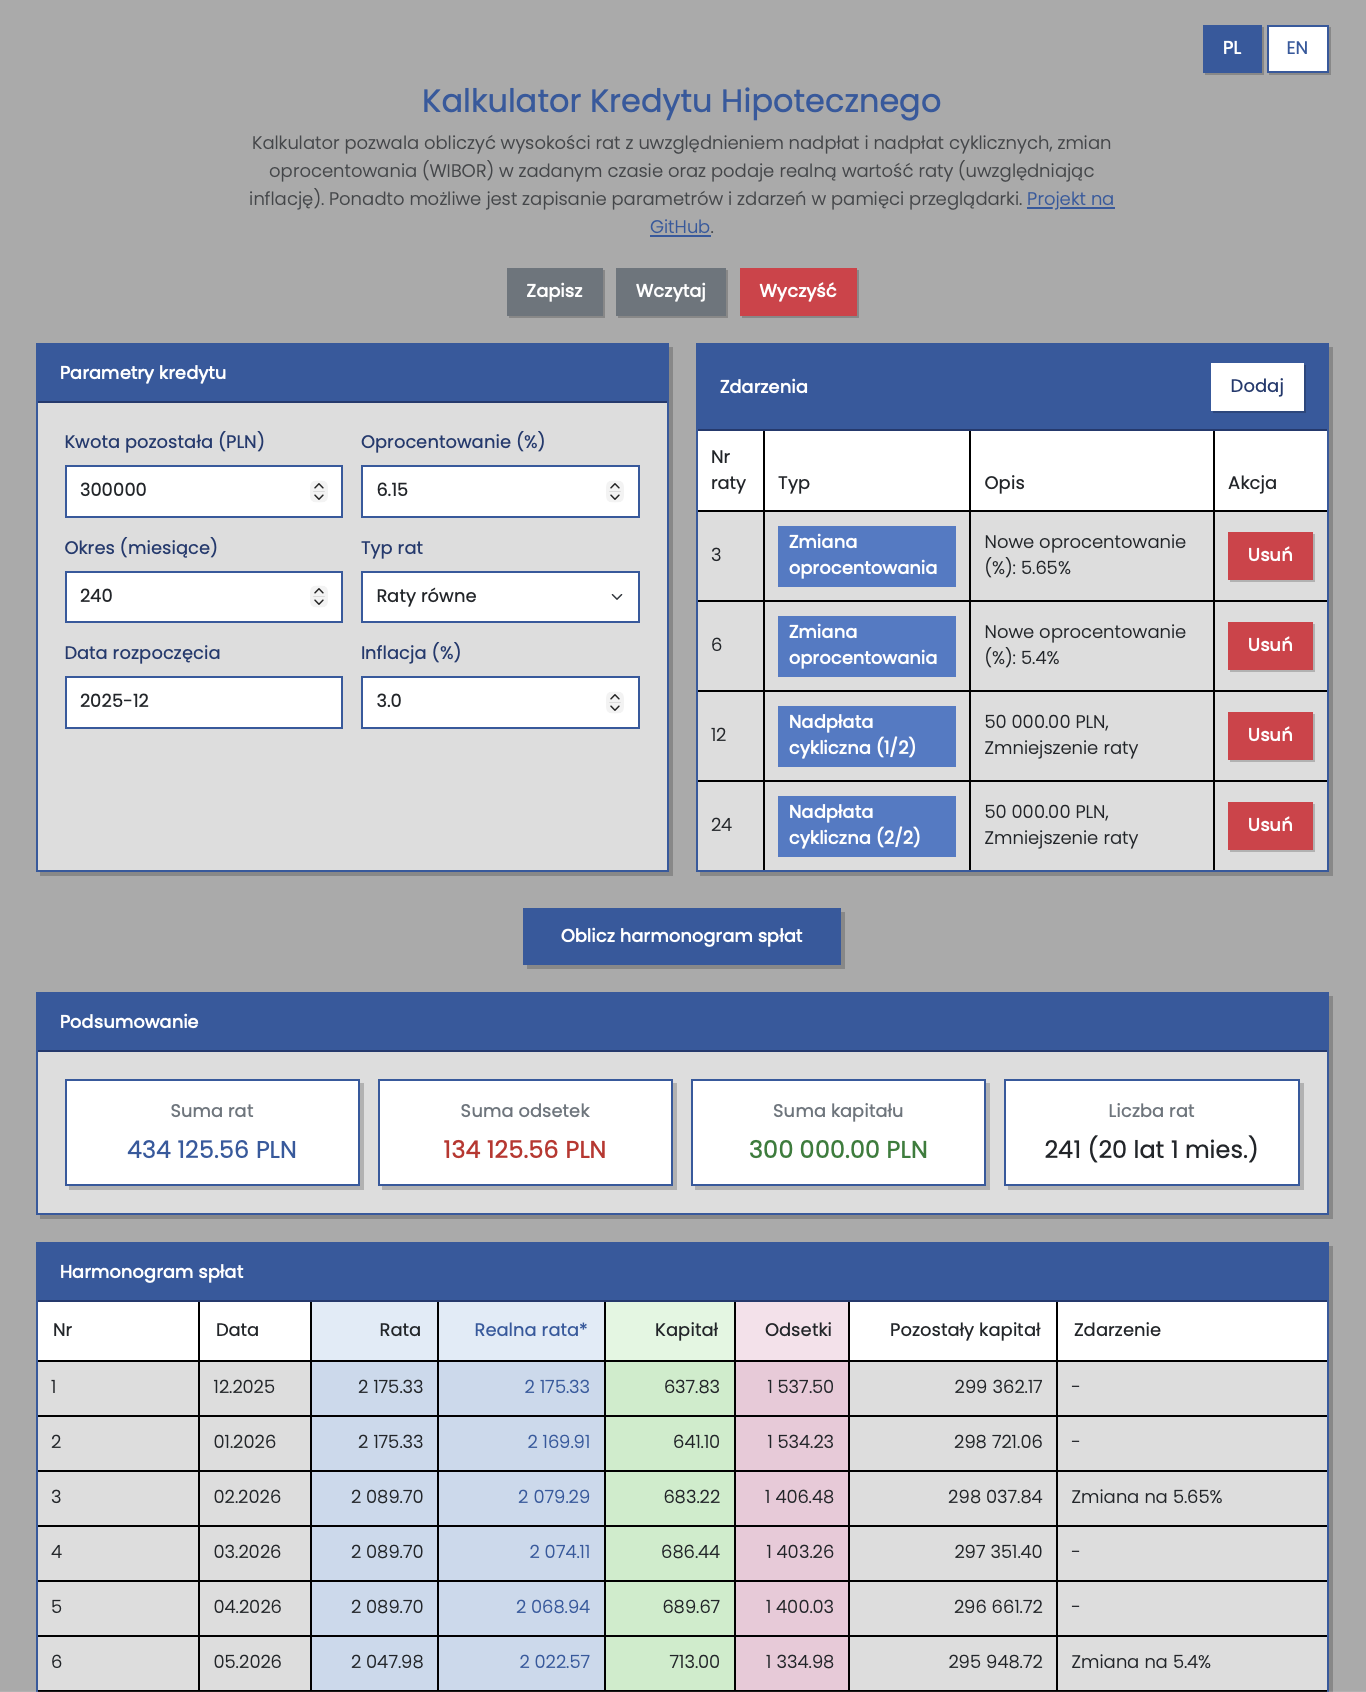
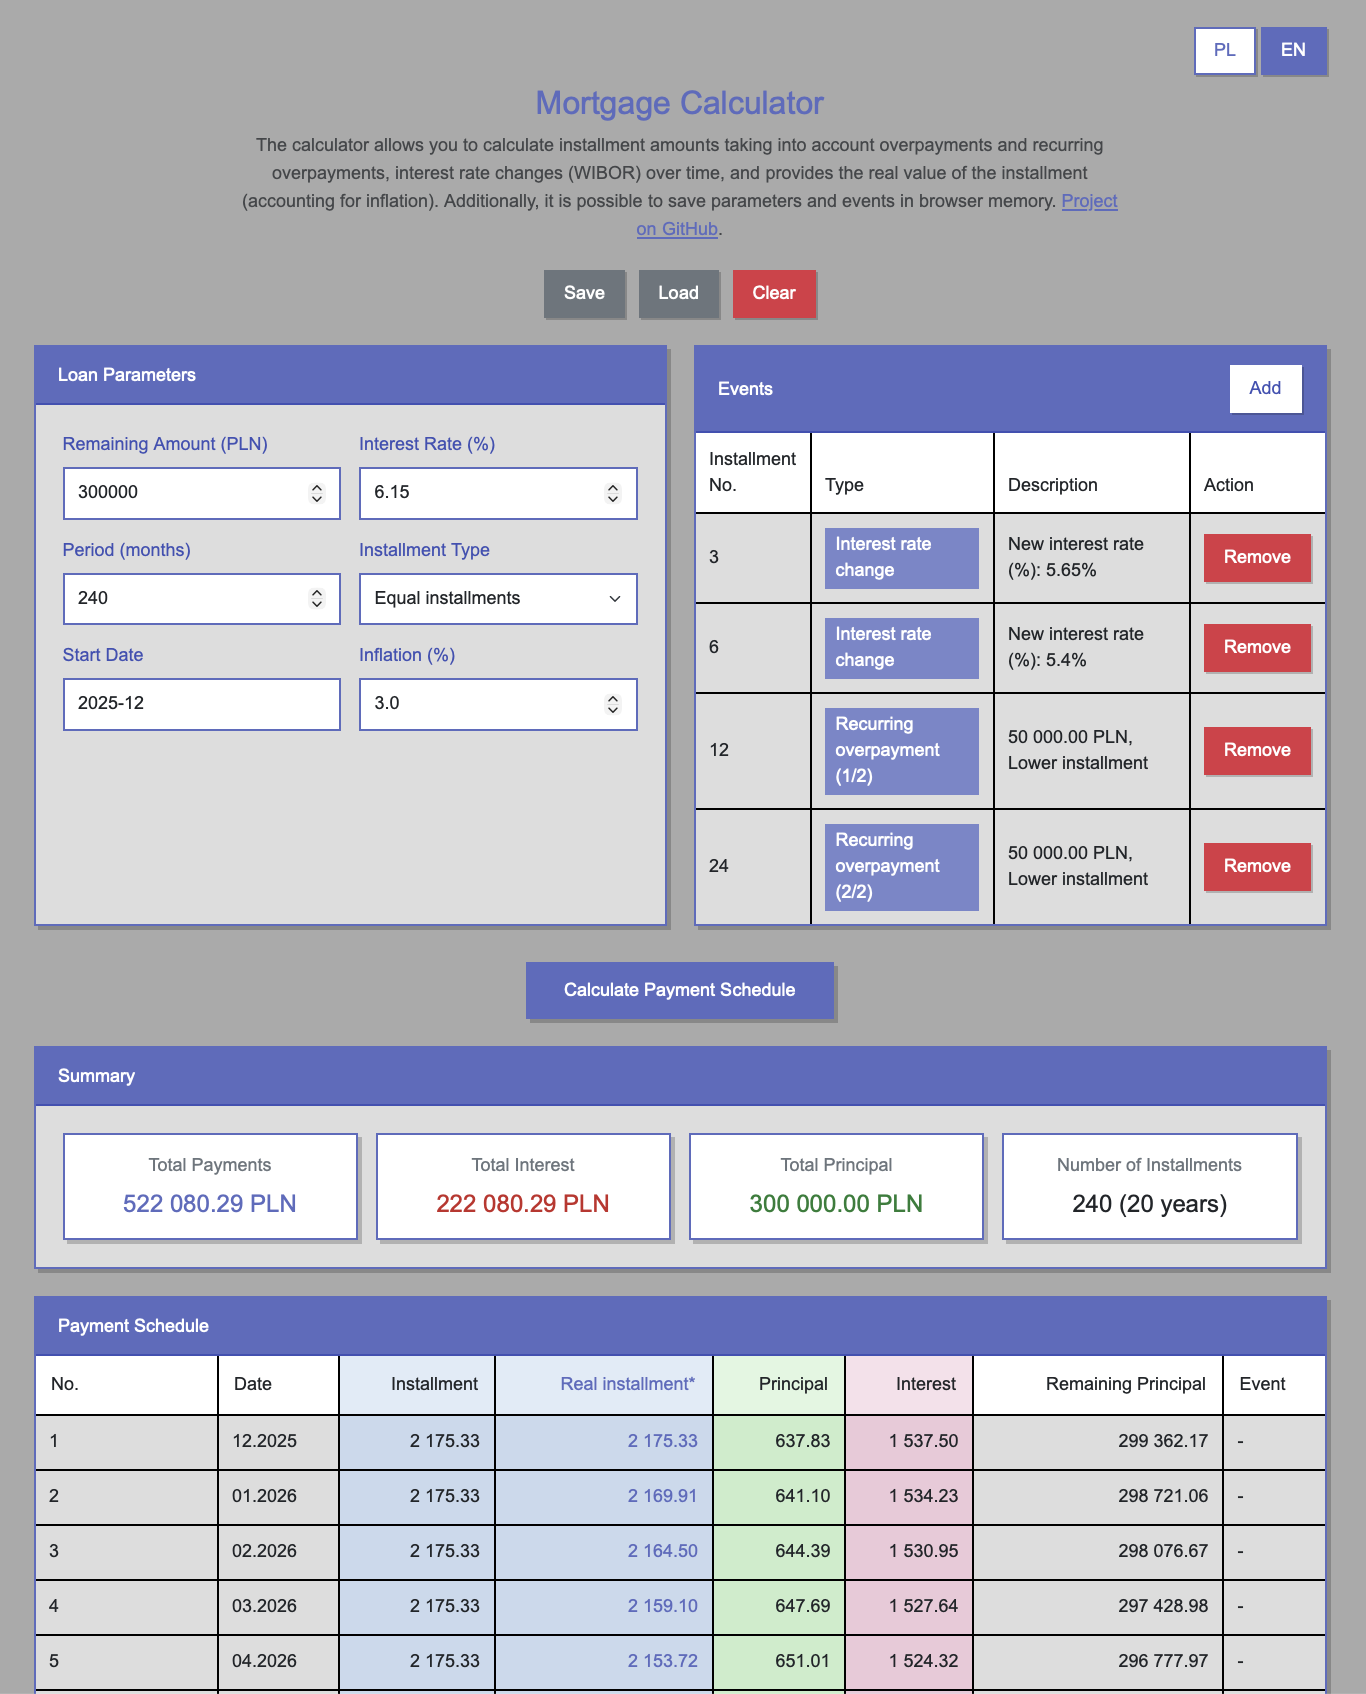
Polishing the fonts and colors

diff --git a/styles.css b/styles.css
@@ -1,21 +1,21 @@
-/* VERSION F: Navy Blue */
+/* VERSION F: Light Indigo */
 
 :root {
-    --primary-color: #2c5aa0;
-    --primary-dark: #1e3a70;
-    --primary-light: #4a7bc8;
+    --primary-color: #5c6bc0;
+    --primary-dark: #3f51b5;
+    --primary-light: #7986cb;
     --bg-color: #aaaaaa;
     --card-bg: #dddddd;
-    --text-dark: #1e3a70;
+    --text-dark: #3f51b5;
     --text-muted: #6c757d;
-    --border-color: #2c5aa0;
+    --border-color: #5c6bc0;
     --success: #1e7e34;
     --danger: #c62828;
     --info: #4a7bc8;
 }
 
 * {
-    font-family: 'Poppins', -apple-system, BlinkMacSystemFont, 'Segoe UI', sans-serif;
+    font-family: Arial, -apple-system, BlinkMacSystemFont, 'Segoe UI', sans-serif;
     font-weight: 300;
 }
 

diff --git a/index.html b/index.html
@@ -5,8 +5,6 @@
     <meta name="viewport" content="width=device-width, initial-scale=1.0">
     <title>Symulator Spłat Kredytu Hipotecznego</title>
     <link href="https://cdn.jsdelivr.net/npm/bootstrap@5.3.0/dist/css/bootstrap.min.css" rel="stylesheet">
-    <link href="https://fonts.googleapis.com/css2?family=Poppins:wght@300;400;500;600&display=swap" rel="stylesheet">
-    <link rel="stylesheet" href="https://cdn.jsdelivr.net/npm/bootstrap-icons@1.11.3/font/bootstrap-icons.min.css">
     <link rel="stylesheet" href="styles.css">
 </head>
 <body>

diff --git a/README.md b/README.md
@@ -4,6 +4,8 @@ A simple yet advanced mortgage calculator created for fun with [Claude Code](htt
 
 **🌐 Live Demo:** [http://hipoteka.kurczyk.xyz](http://hipoteka.kurczyk.xyz)
 
+**📌 Note:** Originally designed for Polish mortgages, but should work with any mortgage type.
+
 ## Why this project?
 
 I couldn't find a similar calculator that would allow easy simulation of:
@@ -21,8 +23,9 @@ I couldn't find a similar calculator that would allow easy simulation of:
 - ✅ **Inflation** - calculate real installment values accounting for inflation
 - ✅ **Payment holidays** - ability to plan interest-only payment periods
 - ✅ **Save simulations** - parameters and events saved in browser's localStorage
-- ✅ **Bilingual** - interface in Polish and English
+- ✅ **Bilingual** - interface in Polish and English (English by default)
 - ✅ **Responsive design** - works on desktop and mobile devices
+- ✅ **Clean design** - light indigo color scheme with Arial font
 
 ## How to use
 
@@ -37,8 +40,6 @@ I couldn't find a similar calculator that would allow easy simulation of:
 - HTML5
 - CSS3 (Bootstrap 5.3.0)
 - Vanilla JavaScript
-- Bootstrap Icons
-- Google Fonts (Poppins)
 
 ## Project structure
 
@@ -46,7 +47,7 @@ I couldn't find a similar calculator that would allow easy simulation of:
 mortgage_calculator/
 ├── index.html          # Main HTML file
 ├── script.js           # Calculator logic and i18n
-├── styles.css          # Styling (navy blue theme)
+├── styles.css          # Styling (light indigo theme)
 ├── .gitignore          # Git ignore file
 └── README.md           # This file
 ```
